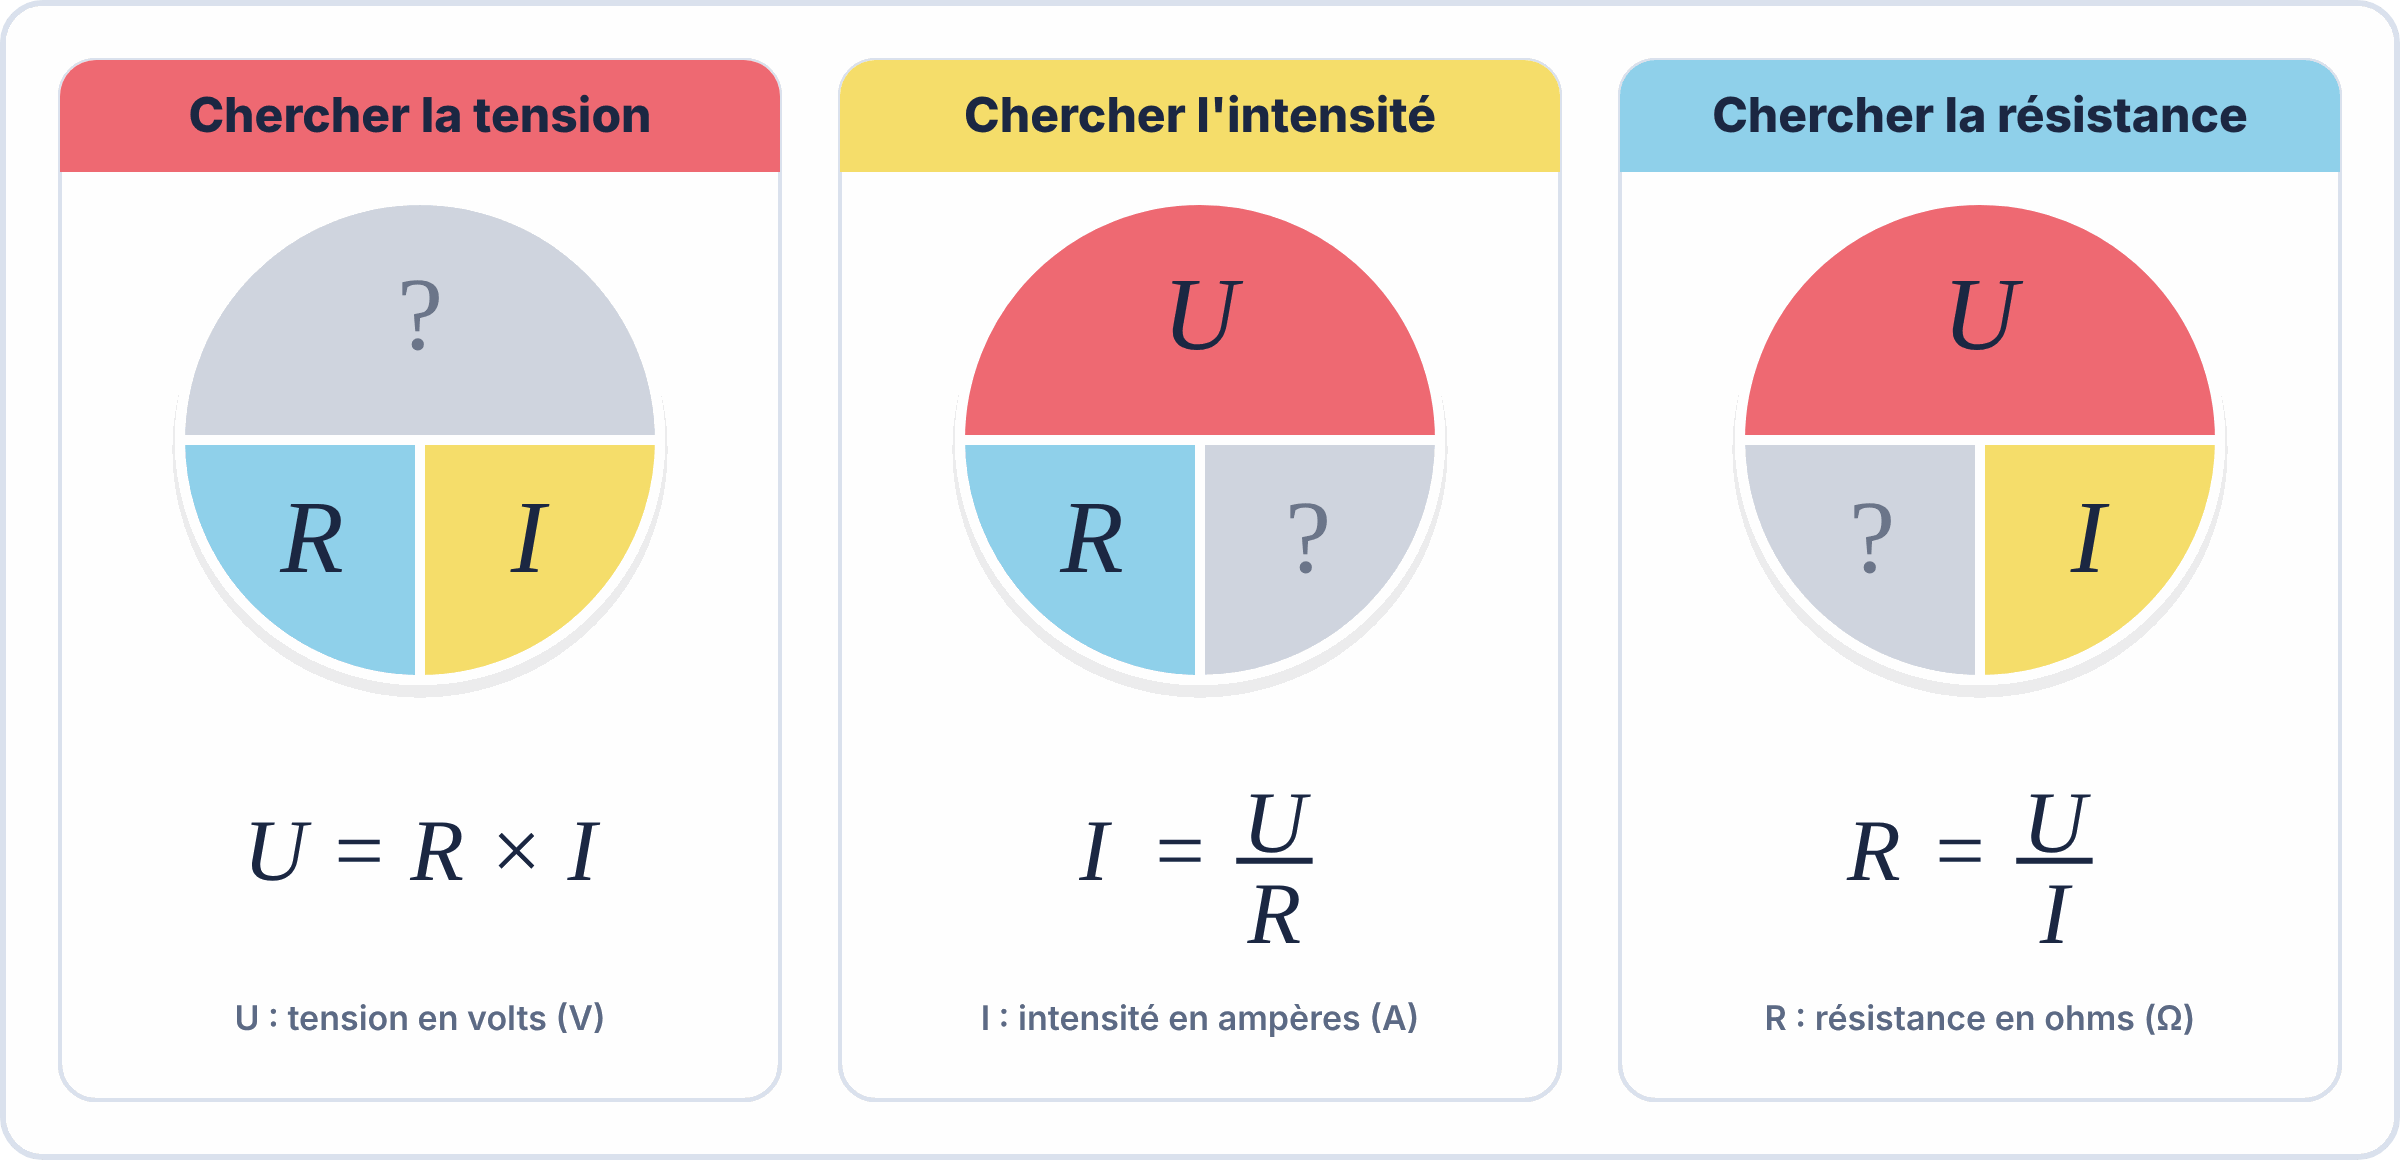
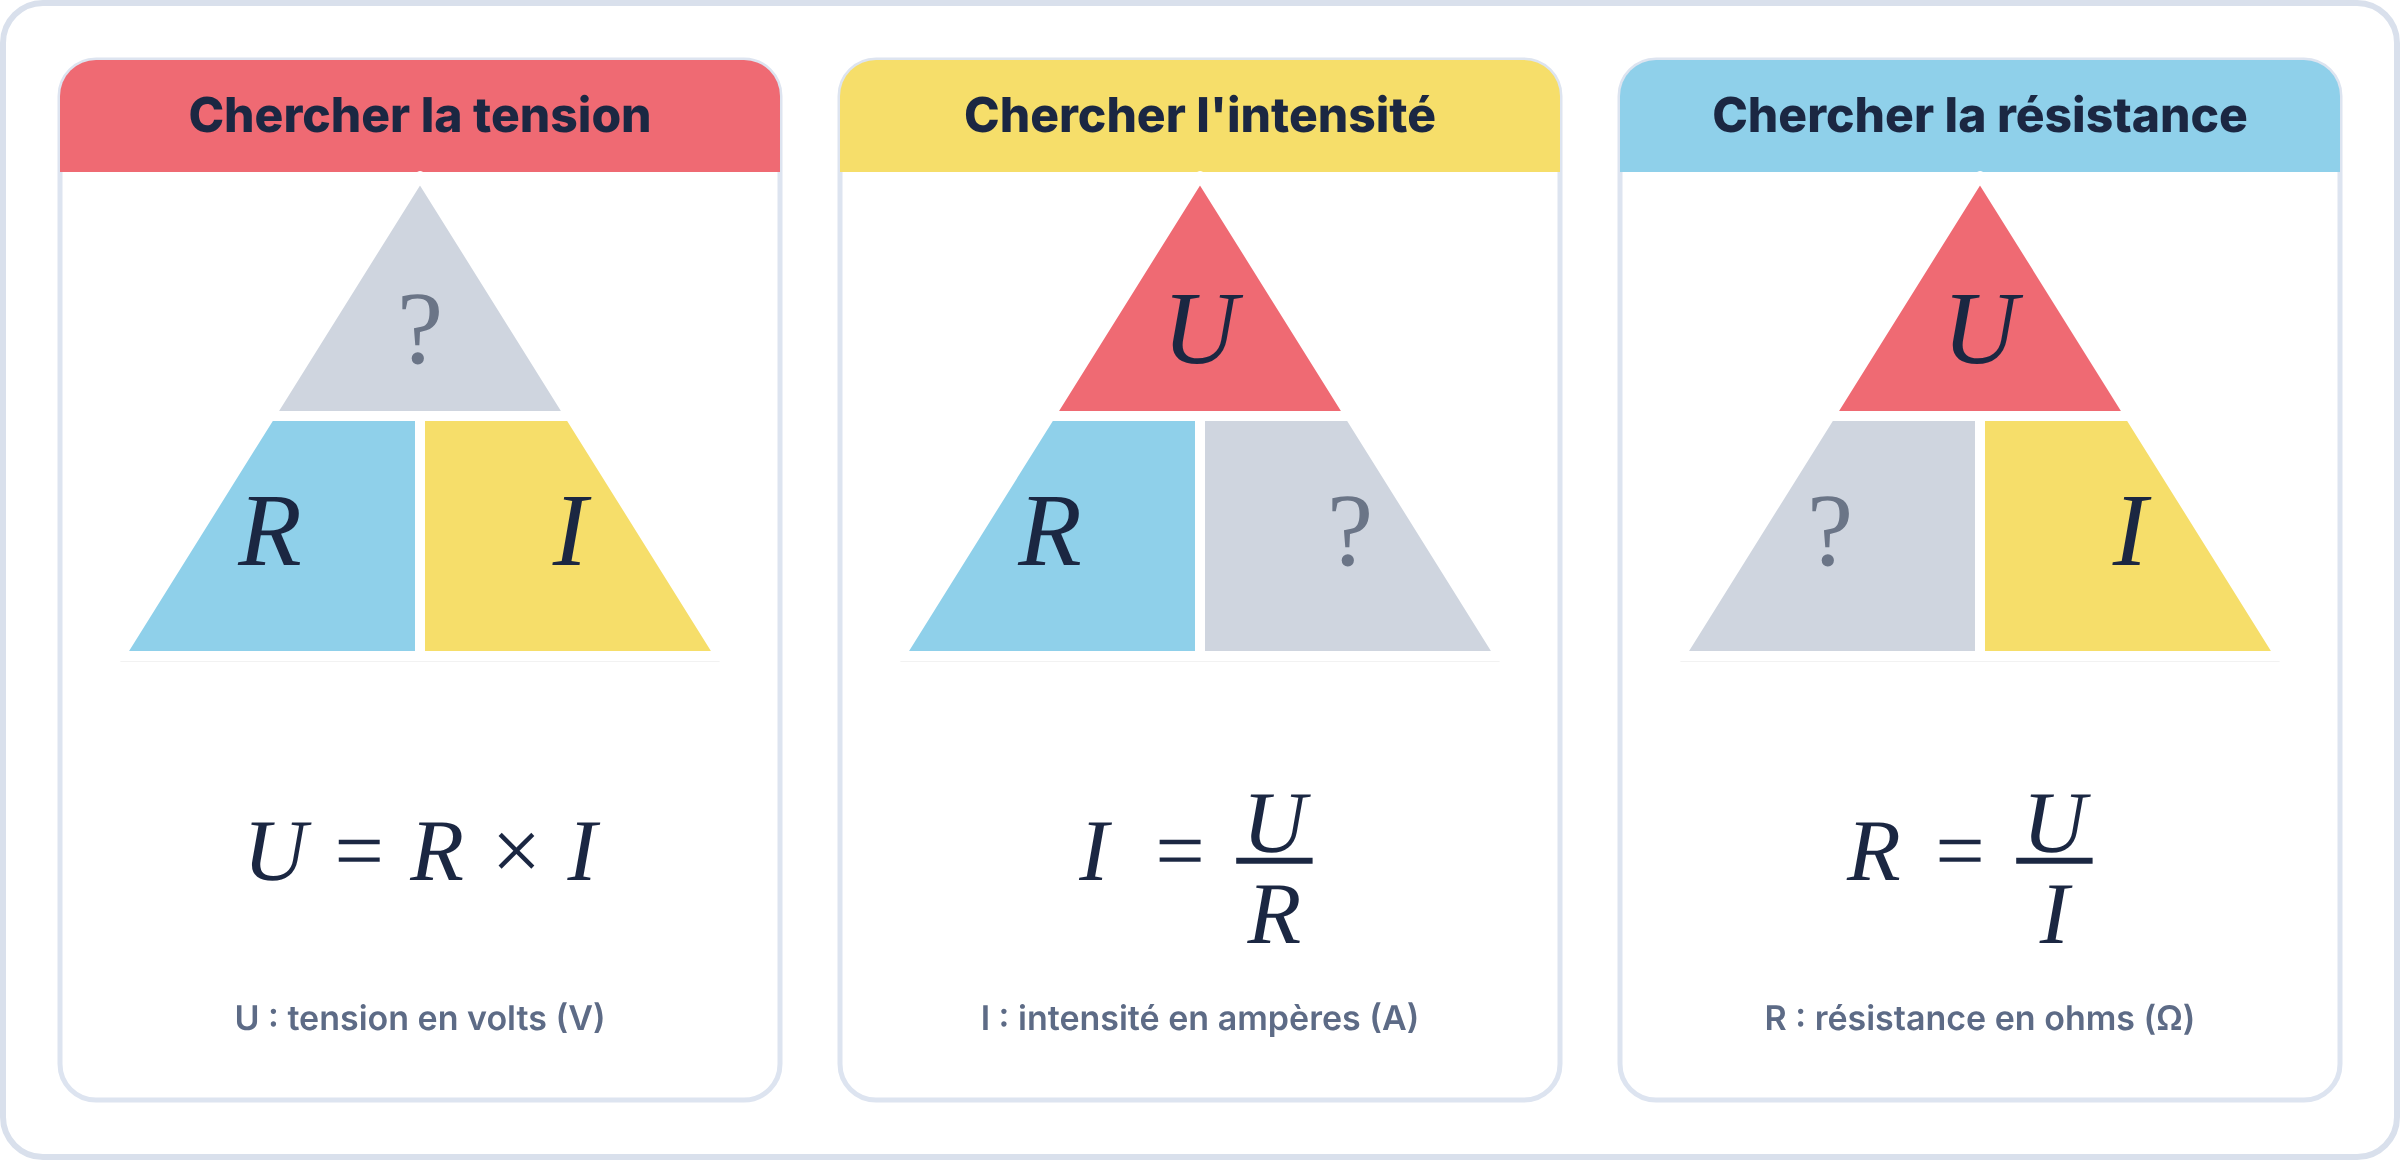
Triangle mnémotechnique (loi d'Ohm, puissance) : disque remplacé par un vrai triangle
Claude-Session: https://claude.ai/code/session_018Ln2Xo12prChdSPrkdSn9D

diff --git a/outils/illustrations-e2/figs_sec.py b/outils/illustrations-e2/figs_sec.py
@@ -28,18 +28,22 @@ def formula(cx, y, lhs, rhs, size=42):
 
 
 def wheel(cx, cy, r, top, left, right, hide, colors):
-    """Disque : lettre 'top' en haut, 'left' en bas à gauche, 'right' en bas à droite ; 'hide' = lettre cachée."""
+    """Triangle mnémotechnique : lettre 'top' en haut, 'left' en bas à gauche, 'right' en bas à droite ; 'hide' = lettre cachée."""
     o = ""
-    def sector(path, key, lab, tx, ty):
+    w, H = r * 1.25, r * 2.0
+    A = (cx, cy - H * 0.55); BL = (cx - w, cy + H * 0.45); BR = (cx + w, cy + H * 0.45)
+    ML = ((A[0] + BL[0]) / 2, (A[1] + BL[1]) / 2); MR = ((A[0] + BR[0]) / 2, (A[1] + BR[1]) / 2)
+    M = (cx, ML[1]); MB = (cx, BL[1])
+    def sector(pts, key, lab, tx, ty):
         c = "#cfd5df" if key == hide else colors[key]
-        s = f'<path d="{path}" fill="{c}" stroke="#fff" stroke-width="5"/>'
+        p = "M" + " L".join(f"{x:.1f},{y:.1f}" for x, y in pts) + " Z"
+        s = f'<path d="{p}" fill="{c}" stroke="#fff" stroke-width="5" stroke-linejoin="round"/>'
         s += mtext(tx, ty, "?" if key == hide else lab, 52, fill="#6b7587" if key == hide else INK, italic=False if key == hide else True)
         return s
-    topP = f"M{cx-r},{cy} A{r},{r} 0 0 1 {cx+r},{cy} Z"
-    leftP = f"M{cx},{cy} L{cx-r},{cy} A{r},{r} 0 0 0 {cx},{cy+r} Z"
-    rightP = f"M{cx},{cy} L{cx+r},{cy} A{r},{r} 0 0 1 {cx},{cy+r} Z"
-    o += f'<circle cx="{cx}" cy="{cy}" r="{r+4}" fill="#000" opacity=".07" transform="translate(0,5)"/>'
-    o += sector(topP, top, top, cx, cy - r * 0.38) + sector(leftP, left, left, cx - r * 0.45, cy + r * 0.55) + sector(rightP, right, right, cx + r * 0.45, cy + r * 0.55)
+    o += f'<path d="M{A[0]},{A[1]} L{BR[0]},{BR[1]} L{BL[0]},{BL[1]} Z" fill="#000" opacity=".05" transform="translate(0,3)"/>'
+    o += sector([A, MR, ML], top, top, cx, A[1] + (ML[1] - A[1]) * 0.78)
+    o += sector([ML, M, MB, BL], left, left, cx - w * 0.5, ML[1] + (BL[1] - ML[1]) * 0.62)
+    o += sector([M, MR, BR, MB], right, right, cx + w * 0.5, ML[1] + (BL[1] - ML[1]) * 0.62)
     return o
 
 

diff --git a/docs/seconde/S01-code-couleurs-des-resistances-et-loi-d/01-cours.md b/docs/seconde/S01-code-couleurs-des-resistances-et-loi-d/01-cours.md
@@ -162,14 +162,14 @@ $$U = R \times I \qquad I = \dfrac{U}{R} \qquad R = \dfrac{U}{I}$$
 > Si tu connais **deux** grandeurs, tu peux toujours trouver la **troisième**. Pour ne pas te tromper, suis toujours les mêmes étapes :
 >
 > 1. **Écris** ce que tu cherches (U, R ou I).
-> 2. **Choisis** la formule avec le cercle : tu caches la grandeur cherchée.
+> 2. **Choisis** la formule avec le triangle : tu caches la grandeur cherchée.
 > 3. **Convertis** les unités en V, A et Ω (des mA deviennent des A).
 > 4. **Calcule**.
 > 5. **Vérifie** que le résultat est logique (ordre de grandeur).
 
 > [!WARNING] ⚠ Erreurs fréquentes
 > - Oublier de convertir les mA en A : 20 mA = **0,02 A** (et pas 20).
-> - Mélanger les formules : le cercle sert à retrouver la bonne.
+> - Mélanger les formules : le triangle sert à retrouver la bonne.
 
 ### ✅ Vérifie que tu as compris
 
